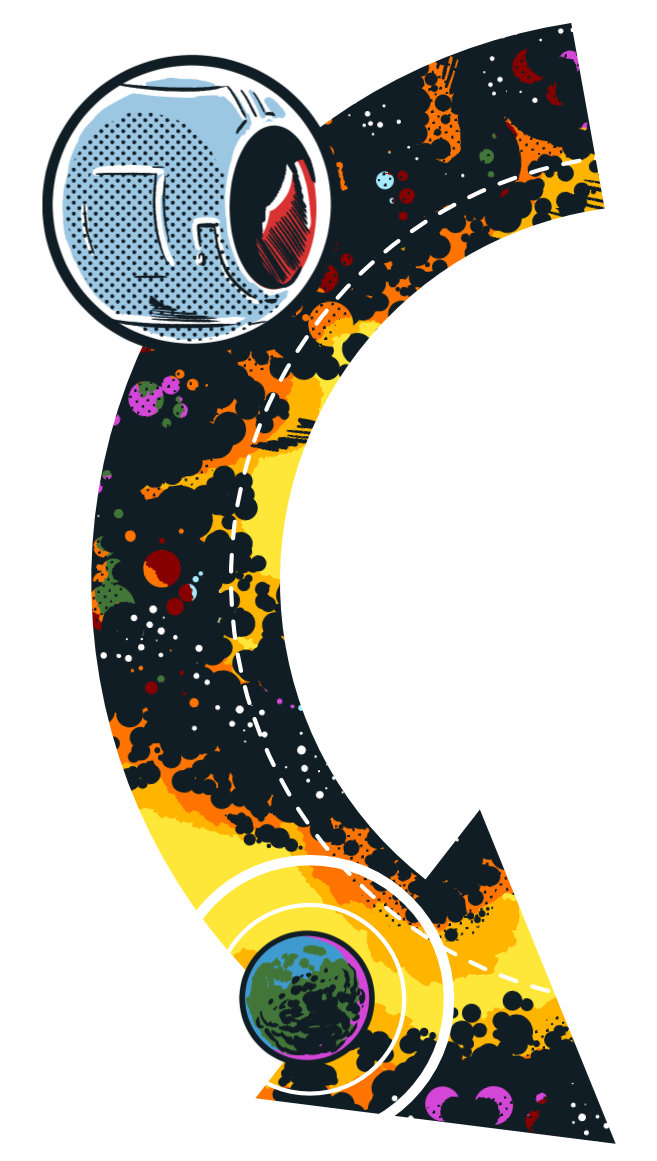
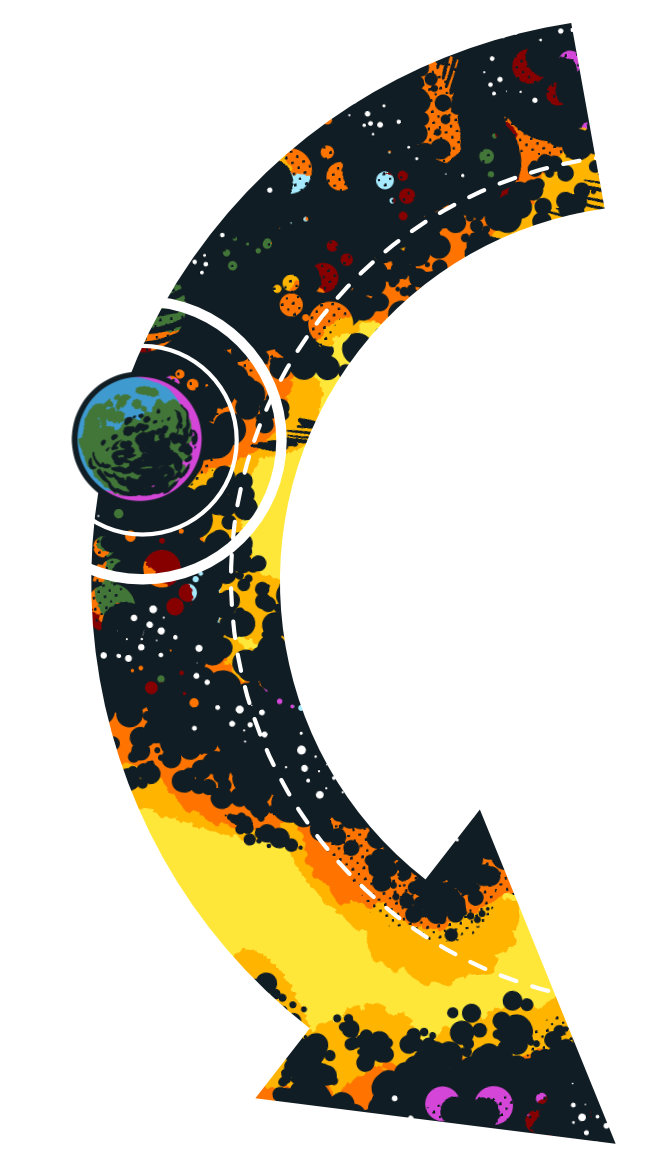
home v1

Changed region(s): [[0.0609, 0.031, 0.5175, 0.5271], [0.3044, 0.7132, 0.7002, 0.9612], [0.3349, 0.3411, 0.3653, 0.4341]]

diff --git a/src/components/homeWide/homeWide.tsx b/src/components/homeWide/homeWide.tsx
@@ -2,6 +2,9 @@ import { graphql, useStaticQuery } from 'gatsby'
 import React from 'react'
 import { AnchorLink } from "gatsby-plugin-anchor-links";
 
+import cpShipRight from './CPshipRight.png'
+import cpShipFront from './CPshipFront.png'
+
 import techHeader from './techHeader.jpg'
 import techSidebar from './techSidebar.jpg'
 import techCircle from './techCircle.svg'
@@ -65,6 +68,9 @@ const HomeWide = () => {
         <div className='cp-home-wide__section__tech__sidebar'>
           <img className="" src={techSidebar} alt=""/>
         </div>
+        <div className='cp-home-wide__section__tech__sidebar cp-home-wide__section__tech__sidebar__ship'>
+          <img className="" src={cpShipRight} alt=""/>
+        </div>
         <div className='cp-home-wide__section__tech__sidebar cp-home-wide__section__tech__sidebar__circle'>
           <img className="" src={techCircle} alt=""/>
         </div>
@@ -126,6 +132,9 @@ const HomeWide = () => {
         </div>
         <div className='cp-home-wide__section__analysis__sidebar'>
           <img className="" src={analysisSidebar} alt=""/>
+        </div>
+        <div className='cp-home-wide__section__analysis__sidebar cp-home-wide__section__analysis__sidebar__ship'>
+          <img className="" src={cpShipFront} alt=""/>
         </div>
         <div className='cp-home-wide__section__analysis__sidebar cp-home-wide__section__analysis__sidebar__circle'>
           <img className="" src={analysisCircle} alt=""/>
@@ -196,6 +205,9 @@ const HomeWide = () => {
       <div className='cp-home-wide__section cp-home-wide__section__changes'>
         <div className='cp-home-wide__section__changes__sidebar-left'>
           <img className="" src={changesSidebarLeft} alt=""/>
+        </div>
+        <div className='cp-home-wide__section__changes__sidebar-left cp-home-wide__section__changes__sidebar-left__ship'>
+          <img className="" src={cpShipRight} alt=""/>
         </div>
         <div className='cp-home-wide__section__changes__sidebar-left cp-home-wide__section__changes__sidebar-left__circle'>
           <img className="" src={changesCircle} alt=""/>

diff --git a/src/scss/_home-wide.scss b/src/scss/_home-wide.scss
@@ -80,6 +80,17 @@ $prefix: cp-home-wide;
       &__sidebar {
         grid-area: sidebar;
 
+        &__ship {
+          position: relative;
+
+          & img {
+            position: absolute;
+            width: 40%;
+            left: 41%;
+            top: 11%;
+          }
+        }
+
         &__circle {
           position: relative;
 
@@ -181,6 +192,17 @@ $prefix: cp-home-wide;
 
       &__sidebar {
         grid-area: sidebar;
+
+        &__ship {
+          position: relative;
+
+          & img {
+            position: absolute;
+            width: 41%;
+            left: 21%;
+            top: 35%;     
+          }
+        }
 
         &__circle {
           position: relative;
@@ -310,14 +332,23 @@ $prefix: cp-home-wide;
         grid-area: sidebar-left;
         align-self: center;
 
+        &__ship {
+          position: relative;
+
+          & img {
+            position: absolute;
+            width: 60%;
+            left: 20%;           
+          }
+        }
+
         &__circle {
           position: relative;
 
           & img {
             position: absolute;
-            width: 40%;
-            left: 64%;
-            top: -4%;             
+            width: 60%;
+            left: 20%;        
           }
         }
       }
